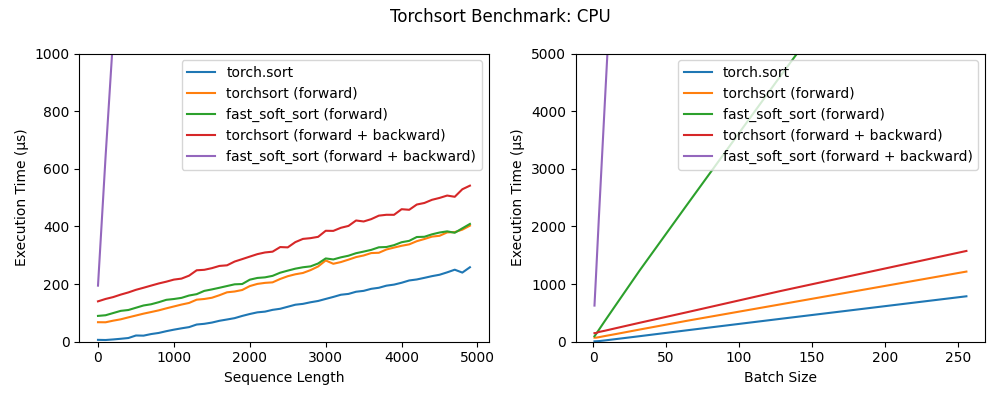
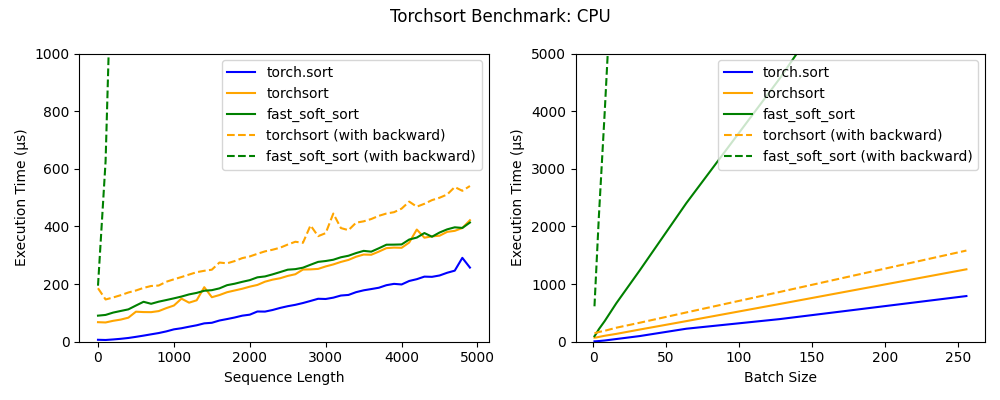
done

diff --git a/extra/benchmark.py b/extra/benchmark.py
@@ -30,24 +30,34 @@ def backward(f, x):
     torch.autograd.grad(y.sum(), x)
 
 
+def style(name):
+    if name == "torch.sort":
+        return {"color": "blue"}
+    linestyle = "--" if "backward" in name else "-"
+    if "fast_soft_sort" in name:
+        return {"color": "green", "linestyle": linestyle}
+    else:
+        return {"color": "orange", "linestyle": linestyle}
+
+
 def batch_size(ax):
     data = defaultdict(list)
     jit = False
     for b in B:
         x = torch.randn(b, 100)
         data["torch.sort"].append(time(lambda: torch.sort(x)))
-        data["torchsort (forward)"].append(time(lambda: torchsort.soft_sort(x)))
-        data["fast_soft_sort (forward)"].append(time(lambda: fss.soft_sort(x)))
+        data["torchsort"].append(time(lambda: torchsort.soft_sort(x)))
+        data["fast_soft_sort"].append(time(lambda: fss.soft_sort(x)))
         x = torch.randn(b, 100, requires_grad=True)
-        data["torchsort (forward + backward)"].append(
+        data["torchsort (with backward)"].append(
             time(lambda: backward(torchsort.soft_sort, x))
         )
-        data["fast_soft_sort (forward + backward)"].append(
+        data["fast_soft_sort (with backward)"].append(
             time(lambda: backward(fss.soft_sort, x))
         )
 
     for label in data.keys():
-        ax.plot(B, data[label], label=label)
+        ax.plot(B, data[label], label=label, **style(label))
     ax.set_xlabel("Batch Size")
     ax.set_ylim(0, 5000)
     ax.set_ylabel("Execution Time (μs)")
@@ -60,18 +70,18 @@ def sequence_length(ax):
     for n in N:
         x = torch.randn(1, n)
         data["torch.sort"].append(time(lambda: torch.sort(x)))
-        data["torchsort (forward)"].append(time(lambda: torchsort.soft_sort(x)))
-        data["fast_soft_sort (forward)"].append(time(lambda: fss.soft_sort(x)))
+        data["torchsort"].append(time(lambda: torchsort.soft_sort(x)))
+        data["fast_soft_sort"].append(time(lambda: fss.soft_sort(x)))
         x = torch.randn(1, n, requires_grad=True)
-        data["torchsort (forward + backward)"].append(
+        data["torchsort (with backward)"].append(
             time(lambda: backward(torchsort.soft_sort, x))
         )
-        data["fast_soft_sort (forward + backward)"].append(
+        data["fast_soft_sort (with backward)"].append(
             time(lambda: backward(fss.soft_sort, x))
         )
 
     for label in data.keys():
-        ax.plot(N, data[label], label=label)
+        ax.plot(N, data[label], label=label, **style(label))
     ax.set_xlabel("Sequence Length")
     ax.set_ylim(0, 1000)
     ax.set_ylabel("Execution Time (μs)")
